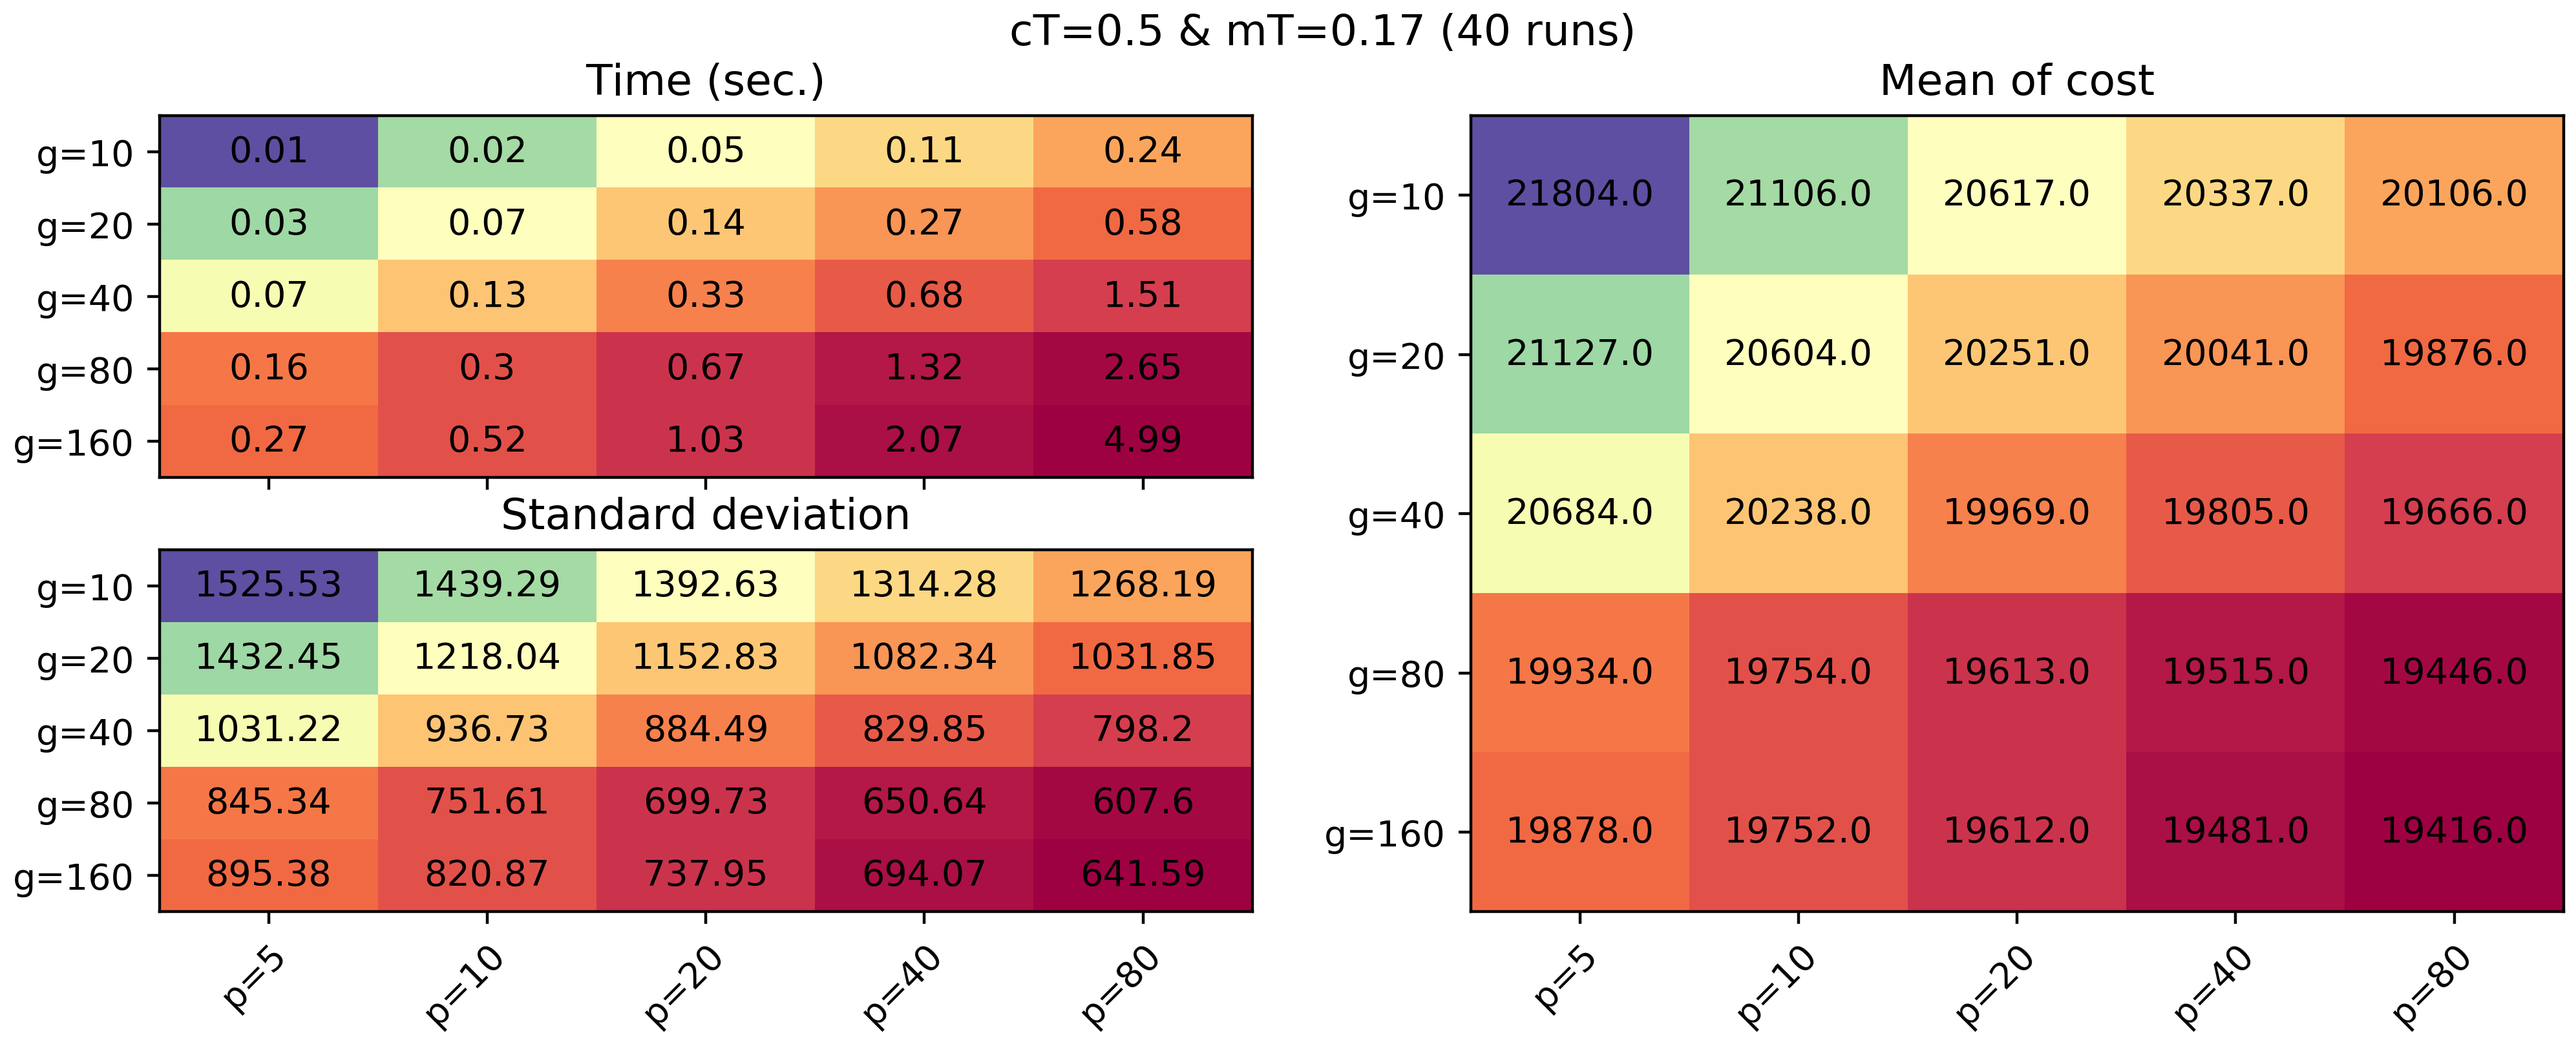
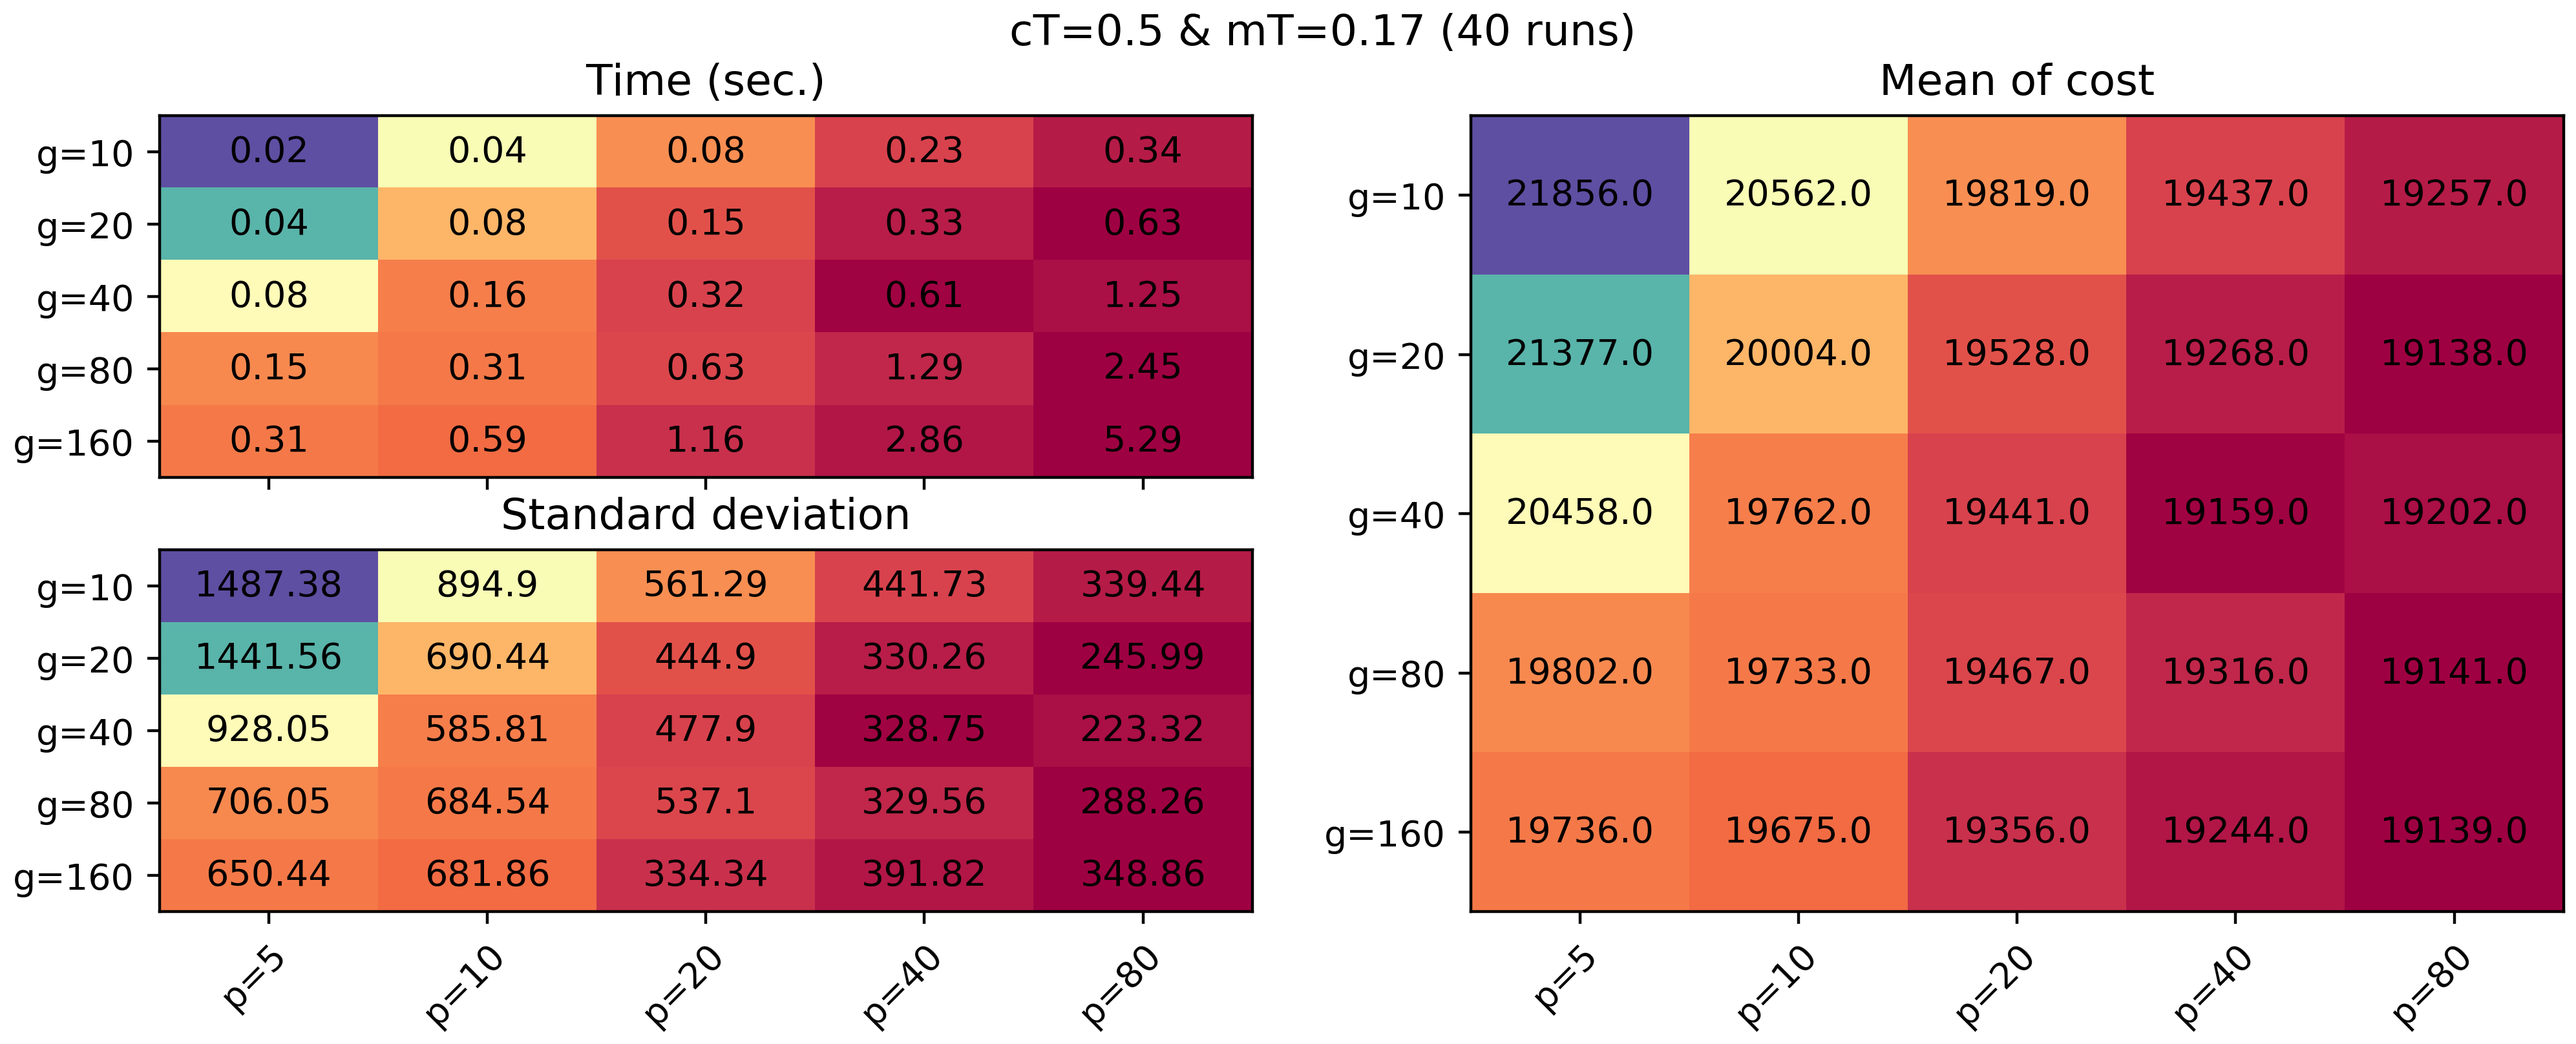
Add comparaison

diff --git a/code/airplane.py b/code/airplane.py
@@ -225,7 +225,7 @@ def draw_table(mean_of_mins, std_of_mins, times_of_mins,row_labels, col_labels, 
     im2 = ax2.imshow(mean_of_mins, aspect='auto')
     im3 = ax3.imshow(mean_of_mins, aspect='auto')
 
-    ax1.set_title("Mean of cost")
+    ax1.set_title("Mean of cost function call to reach 19200")
     ax2.set_title("Standard deviation")
     ax3.set_title("Time (sec.)")
 
@@ -295,40 +295,44 @@ def main():
     times_of_mins = []
     calls_of_mins = []
     calls_of_mins_std = []
-    generations = [20]
-    init_pops = [30]
-    reach = 19400
+    generations = [160]
+    init_pops = [80]
+    reach = 19200
     cross_threshold = float(sys.argv[1])
     mutation_threshold = float(sys.argv[2])
     runs = 40
+    # For each generations
     for gen in range(0, len(generations)):
+        generation = generations[gen]
         all_mins_mean = []
         all_mins_std = []
         all_mins_times = []
-        all_mins_calls = []
-        all_mins_calls_std = []
-        generation = generations[gen]
-        mins_of_pop = []
-        calls_of_pop = []
+        all_calls_of_pop = []
+        all_calls_of_pop_std = []
+        # For each population
         for init_p in range(0, len(init_pops)):
             initial_population_count = init_pops[init_p]
             start = time.time()
+            mins_of_pop = []
+            calls_of_pop = []
+            # Run n times
             for n in range(0, runs):
                 all_mins_of_the_current_gen = []
-                compute_cost_call = 0
                 # initial population
-                all_population_of_the_current_gen = generate_first_population(
-                    initial_population_count)
+                all_population_of_the_current_gen = generate_first_population(initial_population_count)
+                compute_cost_call = 0
                 print('Time :', n, 'and generation :', generation, 'for pop :',
                       initial_population_count)
+                # From 0 to the size of the generation
                 for gen_2 in range(0, generation):
                     # Compute the cost of all the population
                     all_population_of_the_current_gen = compute_costs(
                         all_population_of_the_current_gen)
                     # Get the minimum cost and add it into the list
-                    all_mins_of_the_current_gen.append(
-                        min(all_population_of_the_current_gen,
-                            key=lambda x: x.cost))
+                    min_cost = min(all_population_of_the_current_gen, key=lambda x: x.cost)
+                    all_mins_of_the_current_gen.append(min_cost)
+                    if (min_cost.cost >= reach):
+                        compute_cost_call += 1
                     # Compute probabilities
                     all_population_of_the_current_gen = compute_probabilities(
                         all_population_of_the_current_gen)
@@ -339,25 +343,25 @@ def main():
                 # Pick the last min (the best we get) and put it into the min of mins
                 mins_of_pop.append(all_mins_of_the_current_gen[generation -
                                                                1].cost)
-                if (all_mins_of_the_current_gen[gen].cost >= reach):
-                    print(all_mins_of_the_current_gen[gen].cost)
-
+                # Pick the number of time the cost function have been called to reach the REACH value
+                calls_of_pop.append(compute_cost_call)
+                print(calls_of_pop)
             # After 10 tried, only keep the mean of all the mins
             print("###############")
             all_mins_mean.append(round(statistics.mean(mins_of_pop)))
             all_mins_std.append(round(statistics.stdev(mins_of_pop), 2))
+            all_calls_of_pop.append(round(statistics.mean(calls_of_pop), 2))
+            all_calls_of_pop_std.append(round(statistics.stdev(calls_of_pop), 2))
             all_mins_times.append(round((time.time() - start)/runs, 2))
-            #all_mins_calls.append(round(statistics.mean(calls_of_pop), 2))
-            #all_mins_calls_std.append(round(statistics.mean(calls_of_pop), 2))
         # Put the array of mins into the array containing all array of mins
         mins_of_mins.append(all_mins_mean)
         std_of_mins.append(all_mins_std)
         times_of_mins.append(all_mins_times)
-        #calls_of_mins.append(all_mins_calls)
-        #calls_of_mins_std.append(all_mins_calls_std)
+        calls_of_mins.append(all_calls_of_pop)
+        calls_of_mins_std.append(all_calls_of_pop_std)
         #generate_plot(generation, all_mins, initial_population_count, cross_threshold, mutation_threshold)
-    draw_table(mins_of_mins,
-                std_of_mins,
+    draw_table(calls_of_mins,
+                calls_of_mins_std,
                 times_of_mins,
                 row_labels=generations,
                 col_labels=init_pops,
